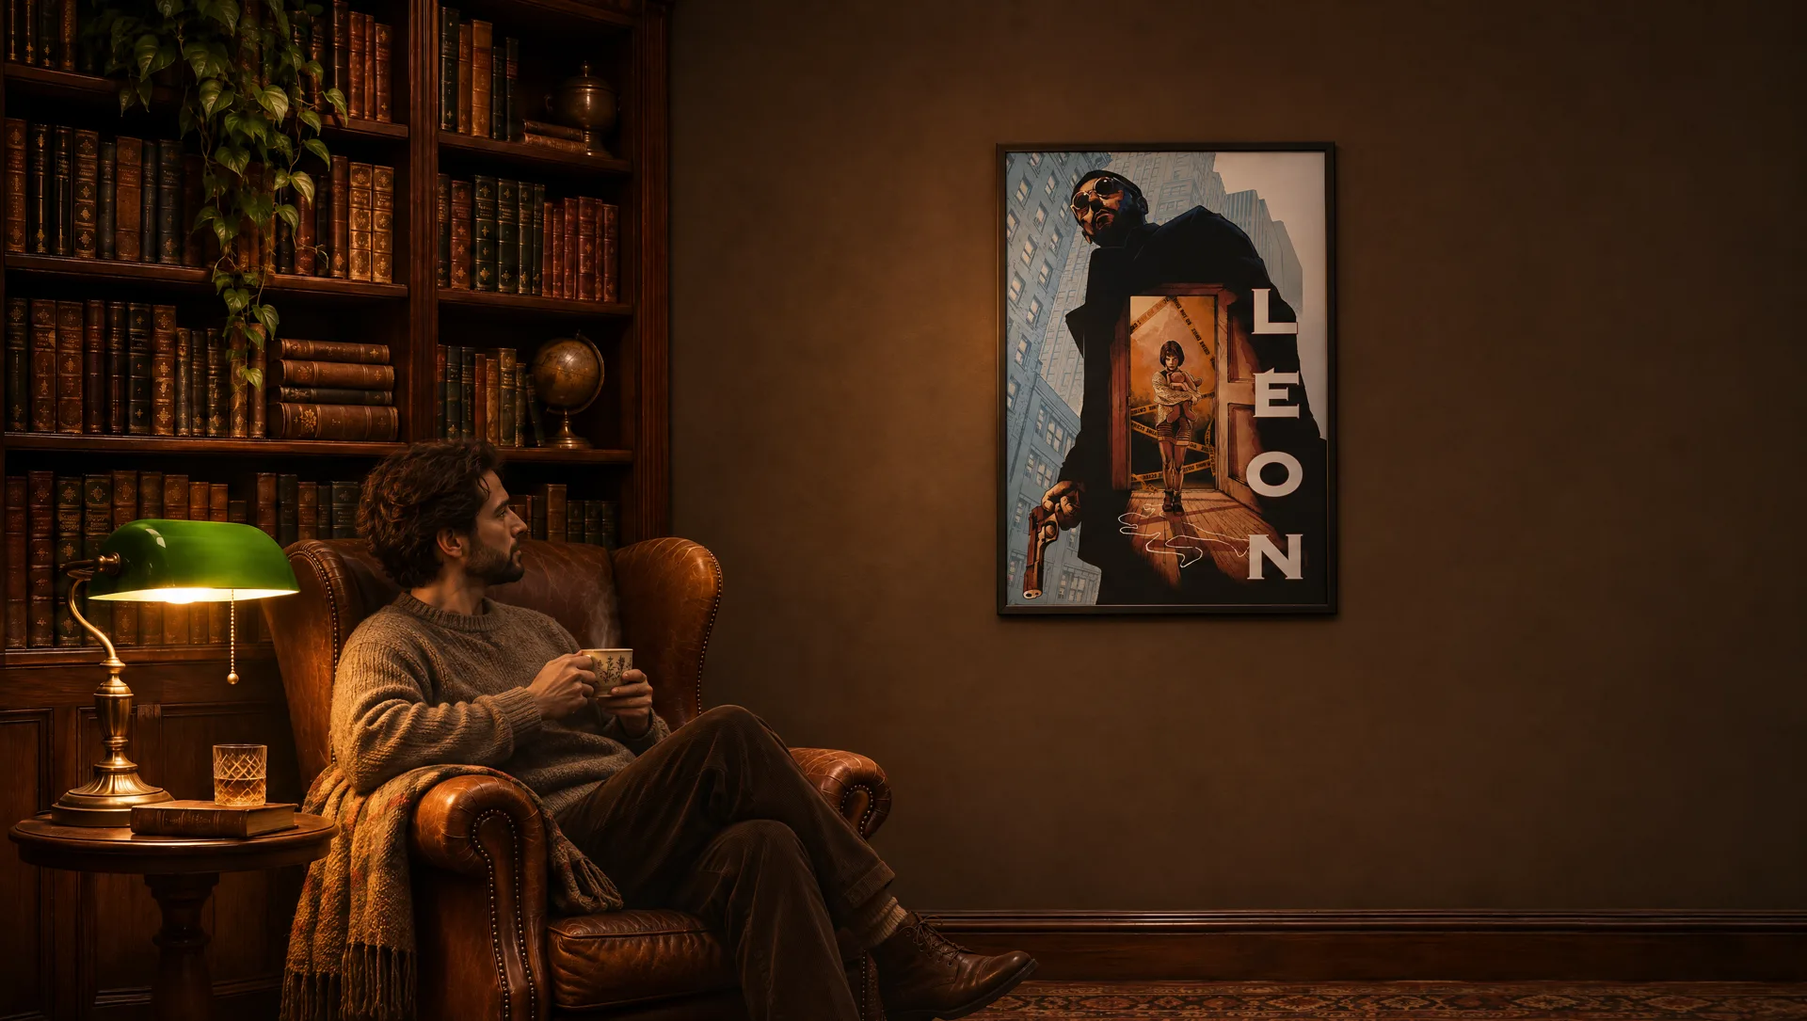
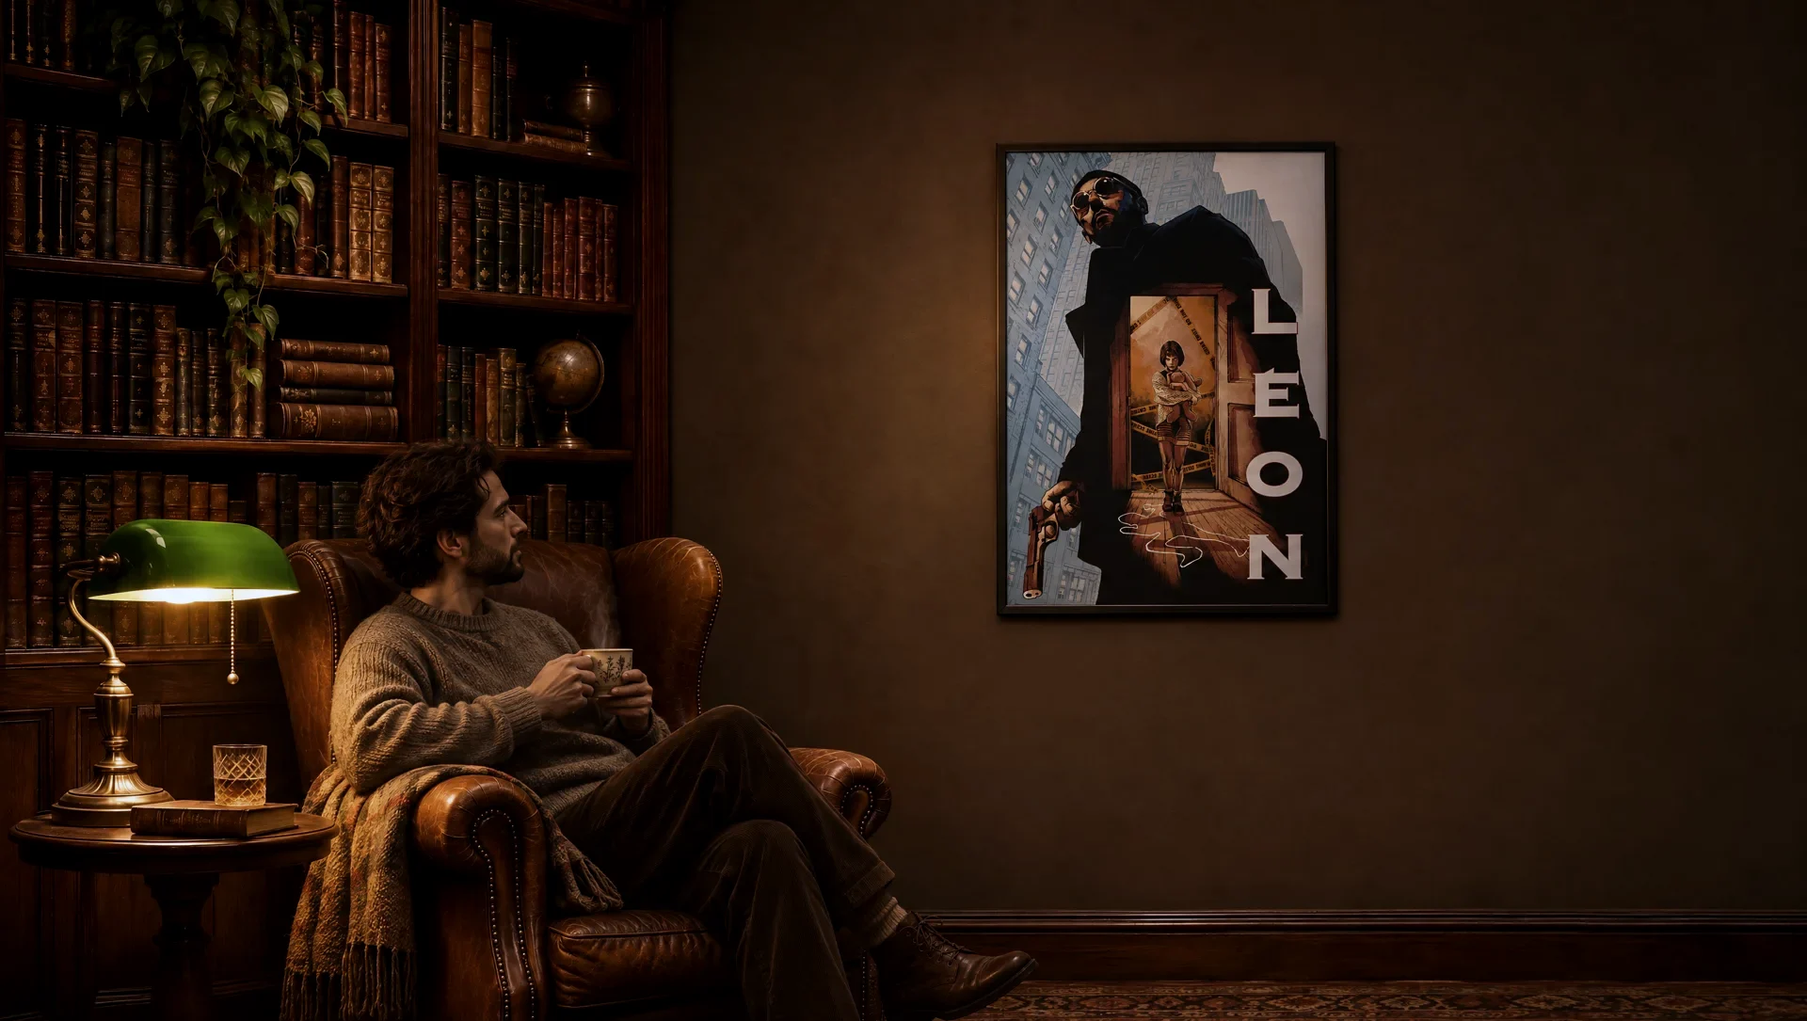
Сайт: рамка на месте, комнаты подстраиваются; без гирлянды; ролик до щелчка; новая УТП; круглая Луна

diff --git a/index.html b/index.html
@@ -119,17 +119,14 @@ header .wrap { height: 100%; display: grid; grid-template-columns: 1fr auto 1fr;
 /* ---------- 1. главный экран: комната ---------- */
 .hero { position: relative; height: 100svh; min-height: 640px; max-height: 1100px; overflow: hidden; isolation: isolate; }
 .room { position: absolute; inset: 0; z-index: -2; }
-.room > img { position: absolute; inset: 0; width: 100%; height: 100%; object-fit: cover; object-position: 28% 50%; opacity: 0; transition: opacity var(--t-slow) var(--ease-move); }
+.room > img { position: absolute; left: 0; top: 0; width: 100%; height: 100%; max-width: none; opacity: 0; transition: opacity var(--t-slow) var(--ease-move); }
 .room > img.on { opacity: 1; }
-/* переезд в другую комнату: кадр мягко «наезжает», рамку снимают со стены и вешают на новое место */
-.room > img { transform: scale(1.045); }
+/* смена комнаты: кадр мягко «наезжает», рамка стоит на месте */
+.room > img { transform: scale(1.03); transform-origin: 69% 44%; }
 .room > img.on { transform: none; }
-.wall.travel { transition: left 1.5s var(--ease-move), top 1.5s var(--ease-move), height 1.5s var(--ease-move); }
-.wall.travel .frame { animation: hang 1.5s var(--ease-move); }
-@keyframes hang { 0% { transform: none; } 40% { transform: translateY(-2.5%) scale(1.04); box-shadow: 0 0 0 1px rgba(0,0,0,.5), 14px 40px 70px -10px rgba(0,0,0,.75); } 100% { transform: none; } }
 .hero::before { content: ""; position: absolute; inset: 0; z-index: -1; pointer-events: none;
-  background: linear-gradient(90deg, rgba(13,11,9,.9) 0%, rgba(13,11,9,.72) 26%, rgba(13,11,9,.25) 44%, rgba(13,11,9,0) 58%),
-    linear-gradient(180deg, rgba(13,11,9,.55) 0%, rgba(13,11,9,0) 14%), linear-gradient(0deg, rgba(13,11,9,1) 0%, rgba(13,11,9,0) 18%); }
+  background: linear-gradient(90deg, rgba(13,11,9,.88) 0%, rgba(13,11,9,.68) 26%, rgba(13,11,9,.2) 46%, rgba(13,11,9,0) 58%),
+    linear-gradient(0deg, rgba(13,11,9,1) 0%, rgba(13,11,9,0) 18%); }
 .hero.dim .room > img { filter: brightness(.82); transition: opacity var(--t-slow) var(--ease-move), filter var(--t-slow) var(--ease-lamp); }
 .room > img { transition: opacity 1.4s var(--ease-move), filter var(--t-slow) var(--ease-lamp), transform 2.6s cubic-bezier(.2,.7,.2,1); }
 .wall { position: absolute; z-index: 0; transform: translate(-50%, -50%); transition: left var(--t-slow) var(--ease-move), top var(--t-slow) var(--ease-move), height var(--t-slow) var(--ease-move); }
@@ -164,7 +161,6 @@ header .wrap { height: 100%; display: grid; grid-template-columns: 1fr auto 1fr;
 @media (max-width: 900px) {
   .hero { height: auto; max-height: none; min-height: 0; }
   .room { position: relative; inset: auto; height: min(118vw, 74svh); -webkit-mask: none; mask: none; }
-  .room > img { object-position: 50% 50%; }
   .hero::before { background: linear-gradient(0deg, rgba(13,11,9,1) 0%, rgba(13,11,9,0) 30%); height: min(118vw, 74svh); }
   .hero > .wrap { height: auto; }
   .hero-copy { padding: 0 0 48px; margin-top: -48px; max-width: none; }
@@ -566,15 +562,7 @@ html.bag-open, html.bag-open body { overflow: hidden; }
 .rise.in { opacity: 1; transform: none; }
 @media (prefers-reduced-motion: reduce) { *, *::before, *::after { transition-duration: 1ms !important; animation-duration: 1ms !important; } .rise { opacity: 1; transform: none; } }
 /* ===== Новогодний слой (временно). Убрать: в build.py NEWYEAR = False ===== */
-/* гирлянда: тёплые огоньки вдоль верха главного экрана, под шапкой */
-.ny-garland { position: absolute; left: 0; right: 0; top: calc(var(--hh) - 6px); height: 46px; z-index: 0; pointer-events: none; opacity: .9; }
-.ny-garland svg { width: 100%; height: 100%; display: block; }
-.ny-garland path { fill: none; stroke: rgba(40, 30, 20, .9); stroke-width: 1.2; }
-.ny-garland circle { fill: #FFD9A0; filter: drop-shadow(0 0 4px rgba(255, 190, 110, .9)) drop-shadow(0 0 10px rgba(255, 170, 80, .45)); animation: ny-tw 3.6s ease-in-out infinite; }
-@keyframes ny-tw { 0%, 100% { opacity: .95; } 50% { opacity: .35; } }
 .ny-kick { color: var(--lamp) !important; }
-@media (prefers-reduced-motion: reduce) { .ny-garland circle { animation: none; } }
-@media (max-width: 900px) { .ny-garland { top: calc(var(--hh) - 10px); height: 34px; } }
 </style>
 </head>
 <body>
@@ -628,25 +616,23 @@ html.bag-open, html.bag-open body { overflow: hidden; }
 
 <!-- 4. Как это работает -->
 <section class="sec" id="overview"><div class="wrap">
-  <div class="sec-head rise"><div><h2>Из коробки — на стену.<br><em>Щелчок — и свет.</em></h2></div>
+  <div class="sec-head rise"><div><h2>Днём — постер.<br><em>Вечером — свет.</em></h2></div>
     <p class="lead">Выключена — строгий постер в тонкой раме. Включена — светится изнутри, как афиша в кинотеатре.</p></div>
   <div class="story rise" id="story">
     <div class="story-stage" id="stStage">
       <video class="stv on" muted playsinline preload="none" poster="img/lib/v1.webp?v=829a4d929a" data-src="media/lib-1.mp4?v=2ca39cdeed" aria-label="Распаковка рамки"></video>
       <video class="stv" muted playsinline preload="none" poster="img/lib/v2.webp?v=1bc06dab88" data-src="media/lib-2.mp4?v=4075bf201c" aria-label="Рамку вешают на стену"></video>
       <video class="stv" muted playsinline preload="none" poster="img/lib/v3.webp?v=41a79065f5" data-src="media/lib-3.mp4?v=41fef9545f" aria-label="Рука тянется к выключателю"></video>
-      <video class="stv" muted playsinline preload="none" poster="img/lib/v4-off.webp?v=58403de82d" data-src="media/lib-4.mp4?v=af04dc3b45" aria-label="Постер загорается"></video>
-      <img class="still" id="stOff" src="img/lib/v4-off.webp?v=58403de82d" alt="" loading="lazy"><img class="still" id="stOn" src="img/lib/v4-on.webp?v=63769e8132" alt="" loading="lazy">
+      <img class="still" id="stOff" src="img/lib/v4-off.webp?v=1559fb351c" alt="" loading="lazy"><img class="still" id="stOn" src="img/lib/v4-on.webp?v=8f6dfba3c2" alt="" loading="lazy">
       <div class="st-cap" id="stCap"><span class="st-n" id="stN">01</span><b id="stT">Открыли коробку</b><span id="stS">Рамка уже собрана, постер внутри</span></div>
-      <div class="st-steps" id="stSteps"><i></i><i></i><i></i><i></i></div>
-      <button type="button" class="st-sw" id="stSw" aria-label="Включить свет"><span>Попробуйте сами — нажмите</span></button>
-      <div class="st-after"><button type="button" class="sw2" id="stToggle" aria-pressed="true"><span id="stToggleT">Выключить</span><span class="toggle on" id="stToggleK"></span></button><button type="button" class="st-replay" id="stReplay">Ещё раз</button></div>
+      <div class="st-steps" id="stSteps"><i></i><i></i><i></i></div>
+      <div class="st-after"><button type="button" class="sw2" id="stToggle" aria-pressed="false"><span id="stToggleT">Включить</span><span class="toggle" id="stToggleK"></span></button><button type="button" class="st-replay" id="stReplay">Ещё раз</button></div>
     </div>
   </div>
   <div class="facts rise"><div><b>1 см</b><span>толщина рамки — почти не выступает</span></div><div><b>12 В</b><span>безопасное напряжение, почти не греется</span></div><div><b>2 м</b><span>кабель с выключателем</span></div><div><b>1 минута</b><span>повесить на один крючок</span></div></div>
   <details class="allspecs"><summary>Все характеристики</summary>
     <div class="specs3">
-      <table class="spec"><tr><td>Формат</td><td id="specFmt">A4, 210 × 297 мм</td></tr><tr><td>Профиль</td><td>Алюминий, матовый чёрный</td></tr><tr><td>Фронт</td><td>Защитное стекло</td></tr><tr><td>Сборка</td><td>Собрана нами, постер внутри</td></tr></table>
+      <table class="spec"><tr><td>Формат</td><td id="specFmt">A4, 210 × 297 мм</td></tr><tr><td>Профиль</td><td>Алюминий, матовый чёрный</td></tr><tr><td>Фронт</td><td>Прозрачная антибликовая панель</td></tr><tr><td>Сборка</td><td>Собрана нами, постер внутри</td></tr></table>
       <table class="spec"><tr><td>Подсветка</td><td>LED + рассеиватель</td></tr><tr><td>Цвет света</td><td>Тёплый</td></tr><tr><td>Питание</td><td>220 → 12 В</td></tr><tr><td>Кабель</td><td>2 м, с выключателем</td></tr></table>
       <table class="spec"><tr><td>В коробке</td><td>Рамка, постер, адаптер</td></tr><tr><td>Крепление</td><td>Вертикально и горизонтально</td></tr><tr><td>Документы</td><td>Декларация ЕАЭС</td></tr><tr><td>Гарантия</td><td>1 месяц</td></tr></table>
     </div>
@@ -831,7 +817,7 @@ const openOrdersOnLoad = location.hash === "#orders";
 if (location.hash) history.replaceState(null, "", location.pathname + location.search);
 scrollTo(0, 0); addEventListener("pageshow", () => scrollTo(0, 0));
 document.addEventListener("click", e => { const a = e.target.closest('a[href^="#"]'); if (!a) return; const id = a.getAttribute("href").slice(1), t = id ? document.getElementById(id) : null; if (!id || !t) return; e.preventDefault(); t.scrollIntoView({ behavior: "smooth" }); });
-const AV = "e9e1cc0793";
+const AV = "ee70506609";
 const P = h => { h = h.split("?")[0]; return "img/w/" + (h.includes(".") ? h.split("/").pop().replace(/\.\w+$/, "") : h.split("/").pop()) + ".webp?v=" + AV; };
 const T = h => P(h).replace("img/w/", "img/t/");
 // весь ассортимент подгружаем фоном после загрузки страницы: сначала миниатюры, потом большие постеры
@@ -927,10 +913,10 @@ let SIZE = "a4";
 // ---------- комнаты: где на стене висит рамка (доли картинки) ----------
 // fx, fy — центр рамки; desktop 2560×1448, телефон — кадр 4:5 вокруг стены (960×1200)
 const ROOMS = {
-  library: { fx: .60, fy: .40, mx: .62, my: .45, s: 1 },
-  study:   { fx: .555, fy: .42, mx: .60, my: .42, s: .9 },
-  living:  { fx: .55, fy: .45, mx: .62, my: .44, s: .84 },
-  attic:   { fx: .565, fy: .46, mx: .62, my: .48, s: 1.08 }
+  library: { fx: .60, fy: .40, mx: .62, my: .45 },
+  study:   { fx: .555, fy: .42, mx: .60, my: .42 },
+  living:  { fx: .55, fy: .45, mx: .62, my: .44 },
+  attic:   { fx: .565, fy: .46, mx: .62, my: .48 }
 };
 const ROOM_OF = {
   study: ["Клан Сопрано", "Острые козырьки", "Крёстный отец", "Джентльмены", "Карты, деньги, два ствола", "Чернобыль", "Твин Пикс", "Чёрное зеркало", "Брат", "Бэтмен"],
@@ -947,17 +933,20 @@ function placeWall(wall, box, imgW, imgH, fx, fy, k, posX = .6, posY = .5) {
   const ox = (cw - dw) * posX, oy = (ch - dh) * posY;
   wall.style.left = (ox + fx * dw) + "px"; wall.style.top = (oy + fy * dh) + "px"; wall.style.height = (k * dh) + "px";
 }
+// рамка стоит на месте всегда; комната сдвигается и масштабируется так, чтобы стена оказалась под рамкой
+const HERO_AT = { d: { x: .69, y: .44 }, m: { x: .56, y: .45 } };
 function layoutHero() {
-  const R = ROOMS[ROOM], m = narrow();
-  placeWall($("heroWall"), $("room"), m ? 960 : 2560, m ? 1200 : 1448, m ? R.mx : R.fx, m ? R.my : R.fy, SIZES[SIZE].k * (R.s || 1) * (m ? .72 : 1), m ? .5 : .28);
+  const m = narrow(), box = $("room"), cw = box.clientWidth, ch = box.clientHeight, W = m ? 960 : 2560, H = m ? 1200 : 1448;
+  const at = HERO_AT[m ? "m" : "d"], tx = at.x * cw, ty = at.y * ch;
+  roomImgs.forEach(im => { const R = ROOMS[im.dataset.r]; if (!R) return; const fx = m ? R.mx : R.fx, fy = m ? R.my : R.fy;
+    const sc = Math.max(cw / W, ch / H, tx / (fx * W), (cw - tx) / ((1 - fx) * W), ty / (fy * H), (ch - ty) / ((1 - fy) * H));
+    Object.assign(im.style, { width: W * sc + "px", height: H * sc + "px", left: tx - fx * W * sc + "px", top: ty - fy * H * sc + "px" }); });
+  const w = $("heroWall"); w.style.left = tx + "px"; w.style.top = ty + "px"; w.style.height = SIZES[SIZE].k * ch * (m ? .76 : 1) + "px";
 }
 function setRoom(r) {
   if (r === ROOM && loadRoom(r).classList.contains("on")) return;
   ROOM = r; const im = loadRoom(r);
-  const w = $("heroWall"), first = !roomImgs.some(x => x.classList.contains("on"));
-  const go = () => { roomImgs.forEach(x => x.classList.toggle("on", x === im));
-    if (!first && !reduce) { w.classList.remove("travel"); void w.offsetWidth; w.classList.add("travel"); clearTimeout(w._t); w._t = setTimeout(() => w.classList.remove("travel"), 1700); }
-    layoutHero(); };
+  const go = () => { roomImgs.forEach(x => x.classList.toggle("on", x === im)); layoutHero(); };
   im.complete && im.naturalWidth ? go() : im.addEventListener("load", go, { once: true });
 }
 
@@ -985,7 +974,7 @@ function renderHero() {
 $("lightToggle").onclick = () => { cfg.on = !cfg.on; renderHero(); };
 
 // очередь показа: сначала «Выбор Proswet», дальше остальные
-// по два фильма в одной комнате, потом переезд в следующую — рамка плывёт на новое место
+// по два фильма в одной комнате, потом следующая комната; рамка при этом не двигается
 const SEQ = (() => {
   const order = [cfg.poster, ...TOPS.filter(i => i !== cfg.poster), ...films.map((f, i) => i).filter(i => !films[i].top && i !== cfg.poster)];
   const by = {}; order.forEach(i => (by[roomOf(films[i])] = by[roomOf(films[i])] || []).push(i));
@@ -1109,7 +1098,7 @@ $("set3").innerHTML = ["Леон", "Сияние", "Паразиты"].map(byTit
 // ---------- ролик «Как это работает»: человек сам включает свет ----------
 (function () {
   const st = $("story"), stage = $("stStage"), vs = [...stage.querySelectorAll(".stv")], steps = [...$("stSteps").children];
-  const SC = [["Открыли коробку", "Рамка уже собрана, постер внутри"], ["Повесили на стену", "Один крючок — и готово"], ["Осталось включить", "Выключатель — на проводе"], ["Щёлк — и свет", "Мягкий, ровный, тёплый. Не слепит"]];
+  const SC = [["Открыли коробку", "Рамка уже собрана, постер внутри"], ["Повесили на стену", "Один крючок — и готово"], ["Осталось включить", "Выключатель — на проводе"], ["Щёлк", "Выключатель — на проводе"]];
   let k = 0, started = false, loaded = false;
   const load = () => { if (loaded) return; loaded = true; vs.forEach(v => { v.preload = "auto"; v.src = v.dataset.src; v.load(); }); };
   const cap = j => { $("stCap").classList.add("swap"); setTimeout(() => { $("stN").textContent = "0" + (j + 1); $("stT").textContent = SC[j][0]; $("stS").textContent = SC[j][1]; $("stCap").classList.remove("swap"); }, 250); };
@@ -1118,13 +1107,12 @@ $("set3").innerHTML = ["Леон", "Сияние", "Паразиты"].map(byTit
   vs.forEach((v, n) => {
     v.addEventListener("timeupdate", () => { if (n === k && v.duration) { steps[n].style.setProperty("--p", v.currentTime / v.duration); if (n < 2 && v.duration - v.currentTime < .3 && !v.dataset.next) { v.dataset.next = 1; play(n + 1); } } });
     v.addEventListener("ended", () => { delete v.dataset.next;
-      if (n === 2) { st.classList.add("wait"); steps[2].style.setProperty("--p", 1); $("stT").textContent = "Попробуйте сами"; $("stS").textContent = "Нажмите на выключатель в кадре"; }
-      if (n === 3) { stills(true); v.classList.remove("on"); st.classList.add("done"); $("stToggle").setAttribute("aria-pressed", true); $("stToggleT").textContent = "Выключить"; $("stToggleK").classList.add("on"); } });
+      // ролик заканчивается щелчком: показываем рамку выключенной и предлагаем включить самим
+      if (n === 2) { steps[2].style.setProperty("--p", 1); stills(false); v.classList.remove("on"); st.classList.add("done"); $("stToggle").setAttribute("aria-pressed", false); $("stToggleT").textContent = "Включить"; $("stToggleK").classList.remove("on"); $("stN").textContent = "03"; $("stT").textContent = "Теперь включите сами"; $("stS").textContent = "Нажмите «Включить» — рамка засветится"; } });
   });
-  $("stSw").onclick = () => play(3);
   $("stToggle").onclick = () => { const on = !$("stOn").classList.contains("on"); stills(on); $("stToggleK").classList.toggle("on", on); $("stToggle").setAttribute("aria-pressed", on); $("stToggleT").textContent = on ? "Выключить" : "Включить"; $("stT").textContent = on ? "Щёлк — и свет" : "Выключена — просто постер"; $("stS").textContent = on ? "Мягкий, ровный, тёплый. Не слепит" : "Строгий постер в тонкой раме"; };
   $("stReplay").onclick = () => { vs.forEach(v => delete v.dataset.next); play(0); };
-  if (reduce) { stills(true); vs.forEach(v => v.classList.remove("on")); st.classList.add("done"); return; }
+  if (reduce) { stills(false); vs.forEach(v => v.classList.remove("on")); st.classList.add("done"); return; }
   new IntersectionObserver(es => es.forEach(e => { if (e.isIntersecting) load(); }), { rootMargin: "900px 0px" }).observe(stage);
   new IntersectionObserver(es => es.forEach(e => { const v = vs[k]; if (e.isIntersecting && !started) { started = true; play(0); } else if (!e.isIntersecting) v.pause(); else if (started && v.paused && !st.classList.contains("wait") && !st.classList.contains("done")) v.play().catch(() => {}); }), { threshold: .45 }).observe(stage);
 })();
@@ -1383,13 +1371,6 @@ $("finImg").complete ? layoutFinale() : $("finImg").addEventListener("load", lay
 (() => {
   const kick = document.querySelector(".hero-copy .kick");
   if (kick) { kick.textContent = "Скоро Новый год — подарите свет"; kick.classList.add("ny-kick"); }
-  // гирлянда
-  const hero = document.querySelector(".hero"), g = document.createElement("div"); g.className = "ny-garland"; g.setAttribute("aria-hidden", "true");
-  const draw = () => { const W = hero.clientWidth, n = Math.max(8, Math.round(W / 70)), sag = W < 700 ? 14 : 22; let d = "", c = "";
-    for (let i = 0; i < n; i++) { const x0 = i * W / n, x1 = (i + 1) * W / n, xm = (x0 + x1) / 2; d += (i ? "" : "M0 2") + " Q" + xm + " " + (2 + sag * 2) + " " + x1 + " 2";
-      const bx = xm, by = 2 + sag; c += '<circle cx="' + bx + '" cy="' + (by + 3) + '" r="' + (W < 700 ? 2.6 : 3.2) + '" style="animation-delay:' + (-(i * 1.37) % 3.6).toFixed(2) + 's"/>'; }
-    g.innerHTML = '<svg viewBox="0 0 ' + W + ' 46" preserveAspectRatio="none"><path d="' + d + '"/>' + c + "</svg>"; };
-  hero.appendChild(g); draw(); addEventListener("resize", draw);
 })();
 
 </script>
